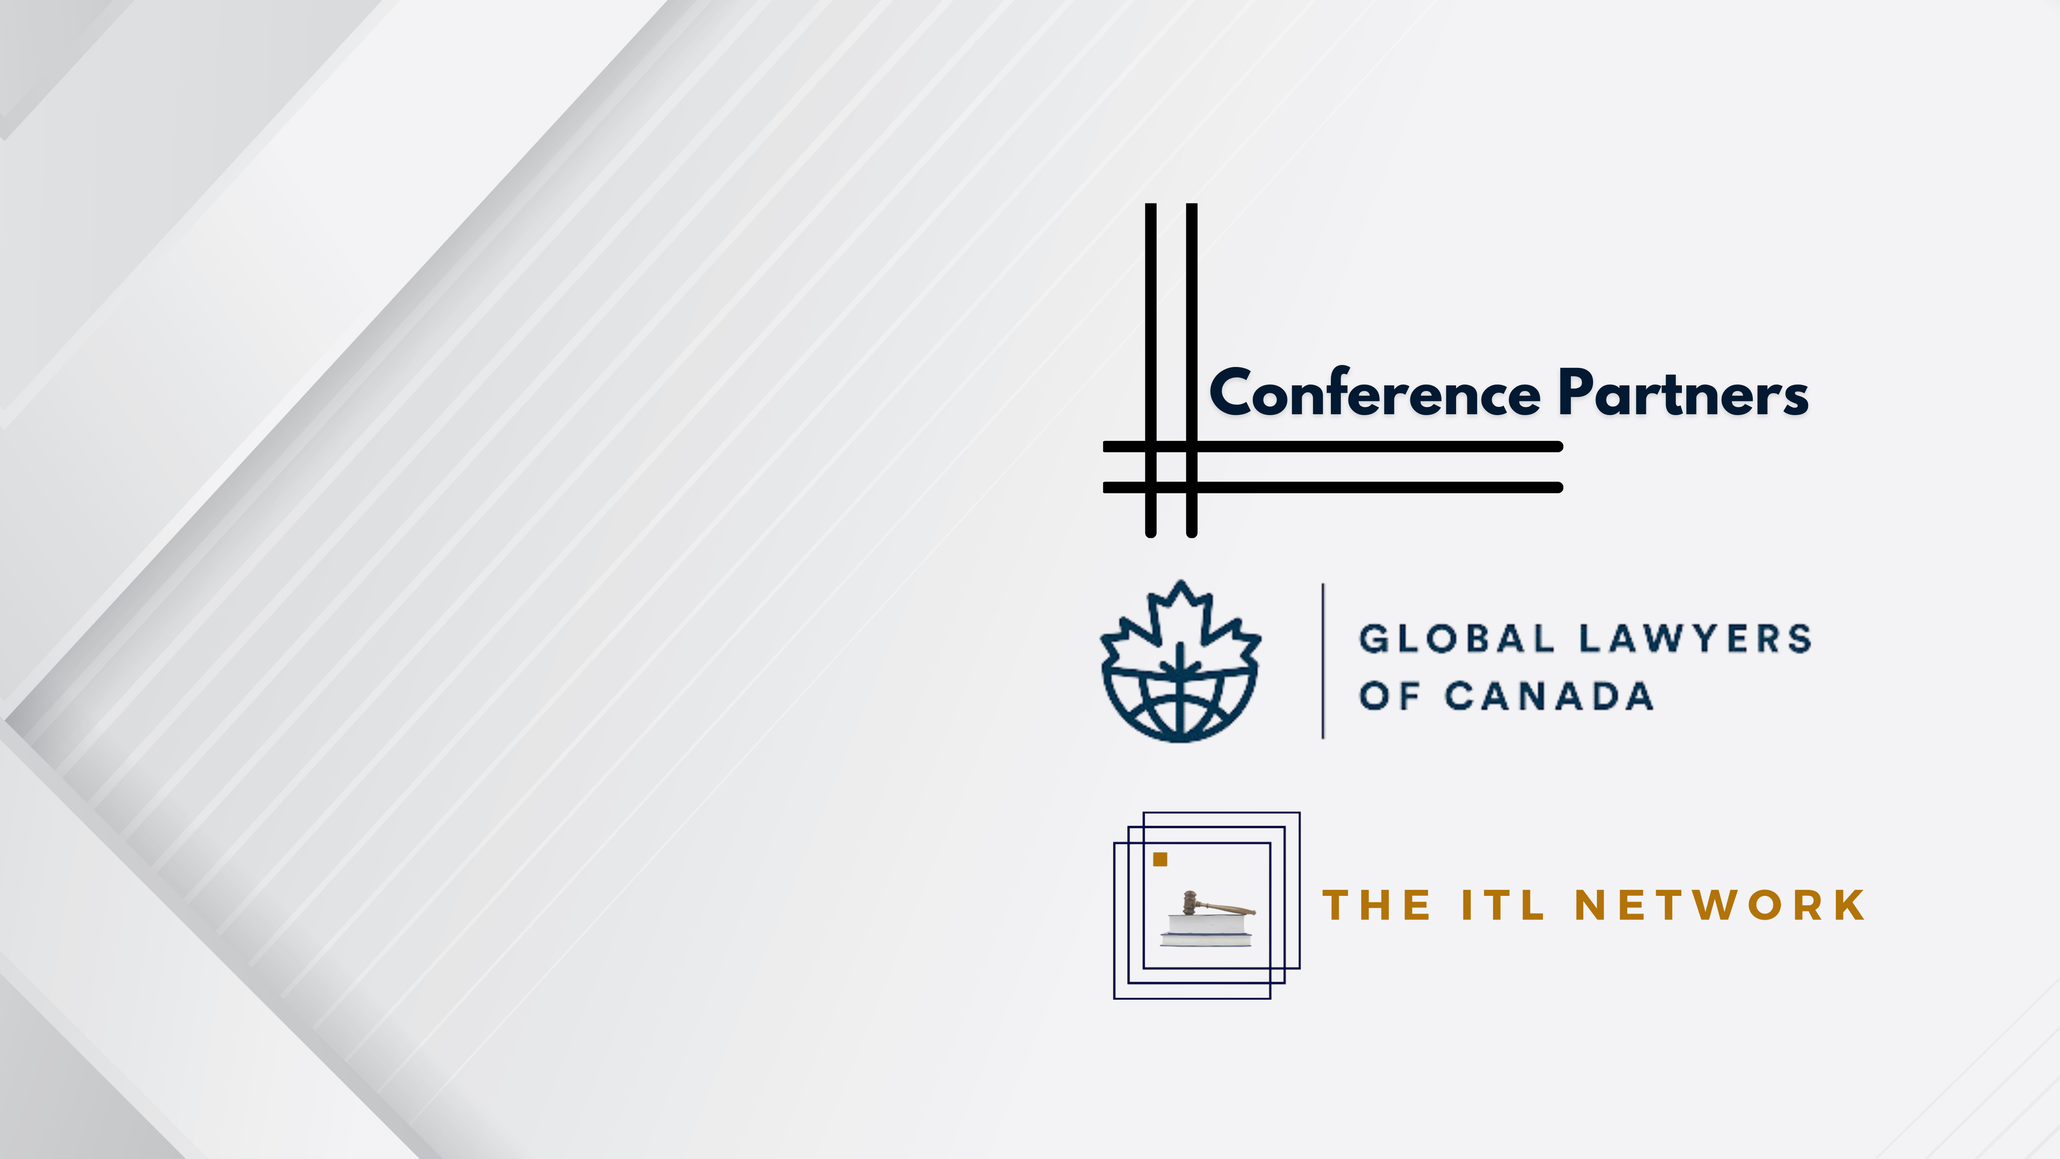
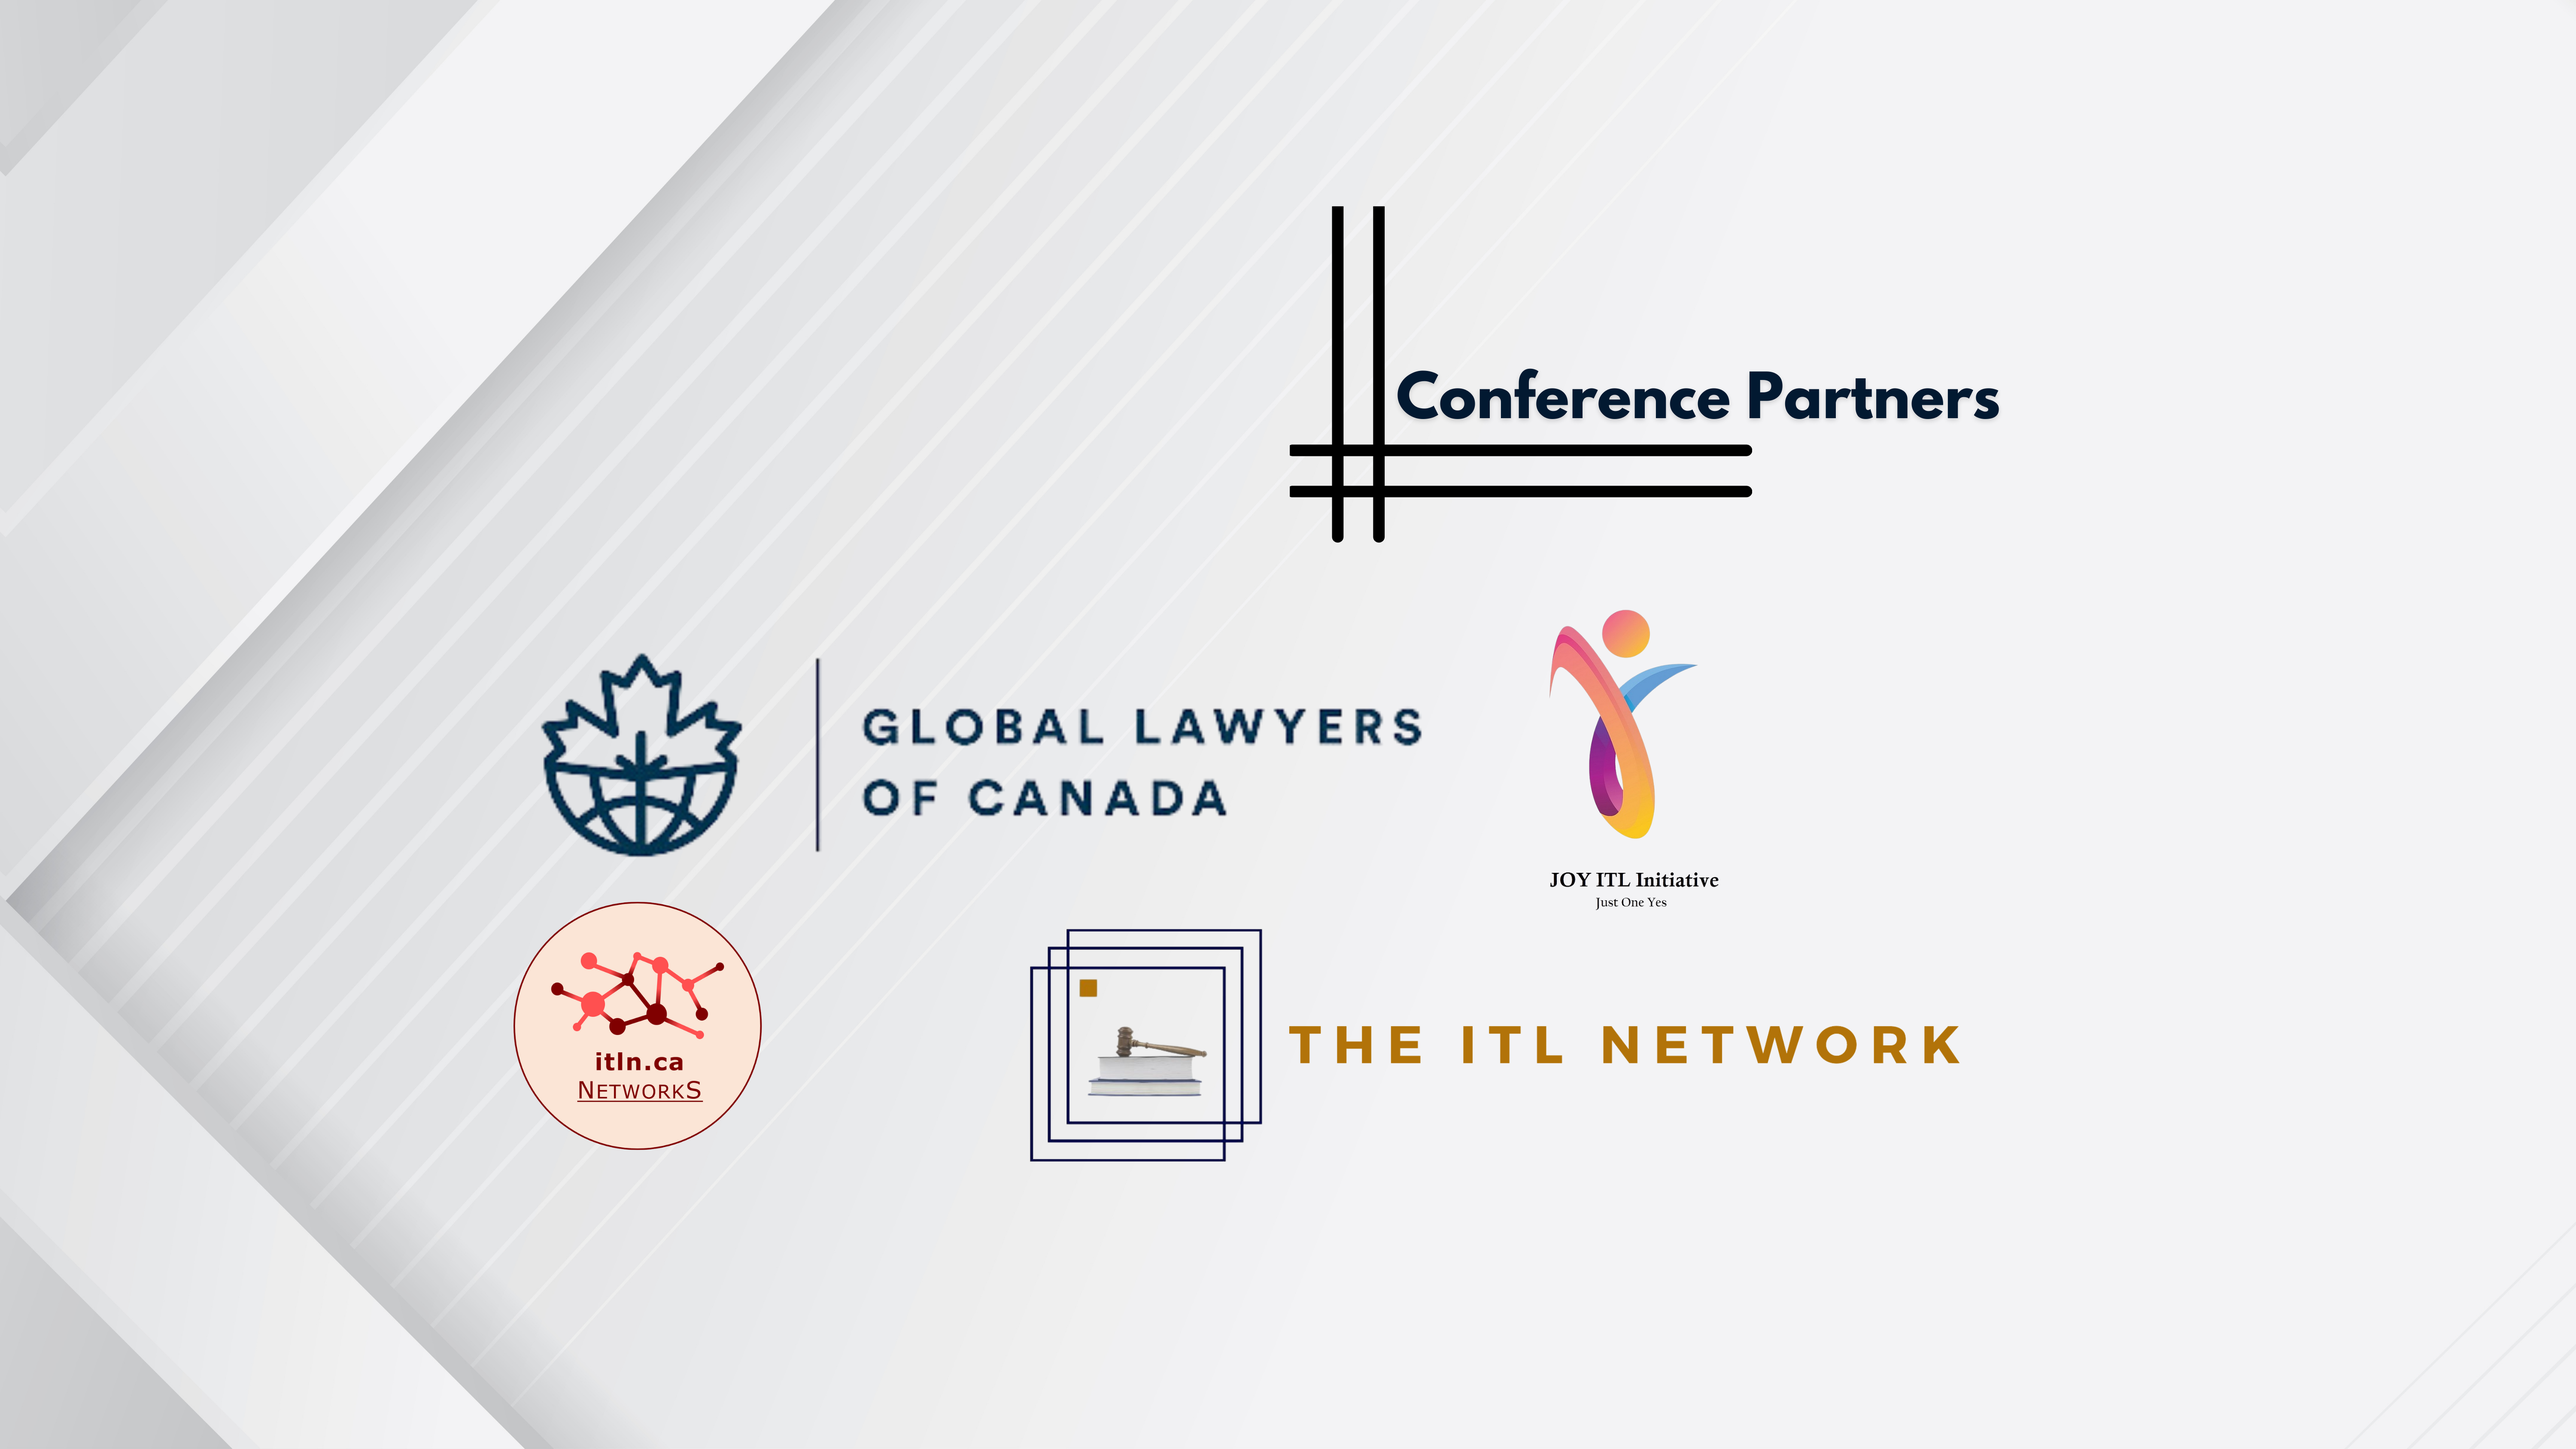
finding nemo

Changed region(s): [[0.1875, 0.1556, 0.875, 0.6533], [0.4062, 0.6533, 0.9062, 0.8711], [0.2188, 0.6533, 0.2812, 0.7778]]

diff --git a/public/index.html b/public/index.html
@@ -6,10 +6,11 @@
     <meta name="viewport" content="width=device-width, initial-scale=1" />
     <meta name="theme-color" content="#000000" />
     <meta
-      name="description"
-      content="Web site created using create-react-app"
+    name="description"
+    content="The largest gathering of Internationally Trained Lawyers (ITLs) in Canada. "
     />
-    <link rel="apple-touch-icon" href="%PUBLIC_URL%/logo192.png" />
+    <link href="/static/css/main.95fba96e.css" rel="stylesheet">
+    <link rel="apple-touch-icon" href="%PUBLIC_URL%/22.png" />
     <link rel="manifest" href="%PUBLIC_URL%/manifest.json" />
     <link rel="preconnect" href="https://fonts.googleapis.com">
     <link rel="preconnect" href="https://fonts.gstatic.com" crossorigin>
@@ -18,16 +19,8 @@
   </head>
   <body>
     <noscript>You need to enable JavaScript to run this app.</noscript>
+    <script defer="defer" src="/static/js/main.07ffe908.js"></script>
+
     <div id="root"></div>
-    <!--
-      This HTML file is a template.
-      If you open it directly in the browser, you will see an empty page.
-
-      You can add webfonts, meta tags, or analytics to this file.
-      The build step will place the bundled scripts into the <body> tag.
-
-      To begin the development, run `npm start` or `yarn start`.
-      To create a production bundle, use `npm run build` or `yarn build`.
-    -->
   </body>
 </html>

diff --git a/src/components/about-itl/AboutSection.jsx b/src/components/about-itl/AboutSection.jsx
@@ -25,7 +25,7 @@ const AboutSection = () => {
             </h2>
 
               <p className="text-md text-textDark lg:text-lg">
-                The ITL Conference is the largest gathering of Internationally Trained Lawyers (ITLs) in Canada. The Conference will feature different legal professionals, regulators, change makers, and other stakeholders committed to supporting ITLs in their legal practice journey in Canada. The ITL Conference is a joint effort of our partner organisations: The ITL Network, Global Lawyers of Canada, Joy ITL Initiative and ITL NCA NetworkS.
+                The ITL Conference is the largest gathering of Internationally Trained Lawyers (ITLs) in Canada. The Conference will feature different legal professionals, regulators, change makers, and other stakeholders committed to supporting ITLs in their legal practice journey in Canada. The ITL Conference is a joint effort of our partner organisations: The ITL Network, Global Lawyers of Canada, Joy ITL Initiative and ITL NCA Networks.
               </p>
               <div>
                 <button className="bg-ctaBg text-white hover:bg-ctaHover rounded-md px-6 py-3 transition duration-300 ease-in-out">

diff --git a/src/components/about-us/About.jsx b/src/components/about-us/About.jsx
@@ -25,7 +25,7 @@ const AboutSection = () => {
             </h2>
 
               <p className="text-md text-textDark lg:text-lg">
-                The ITL Conference is the largest gathering of Internationally Trained Lawyers (ITLs) in Canada. The Conference will feature different legal professionals, regulators, change makers, and other stakeholders committed to supporting ITLs in their legal practice journey in Canada. The ITL Conference is a joint effort of our partner organisations: The ITL Network, Global Lawyers of Canada, Joy ITL Initiative and ITL NCA NetworkS.
+                The ITL Conference is the largest gathering of Internationally Trained Lawyers (ITLs) in Canada. The Conference will feature different legal professionals, regulators, change makers, and other stakeholders committed to supporting ITLs in their legal practice journey in Canada. The ITL Conference is a joint effort of our partner organisations: The ITL Network, Global Lawyers of Canada, Joy ITL Initiative and ITL NCA Networks.
               </p>
               <div>
                 <button className="bg-ctaBg text-white hover:bg-ctaHover rounded-md px-6 py-3 transition duration-300 ease-in-out">
